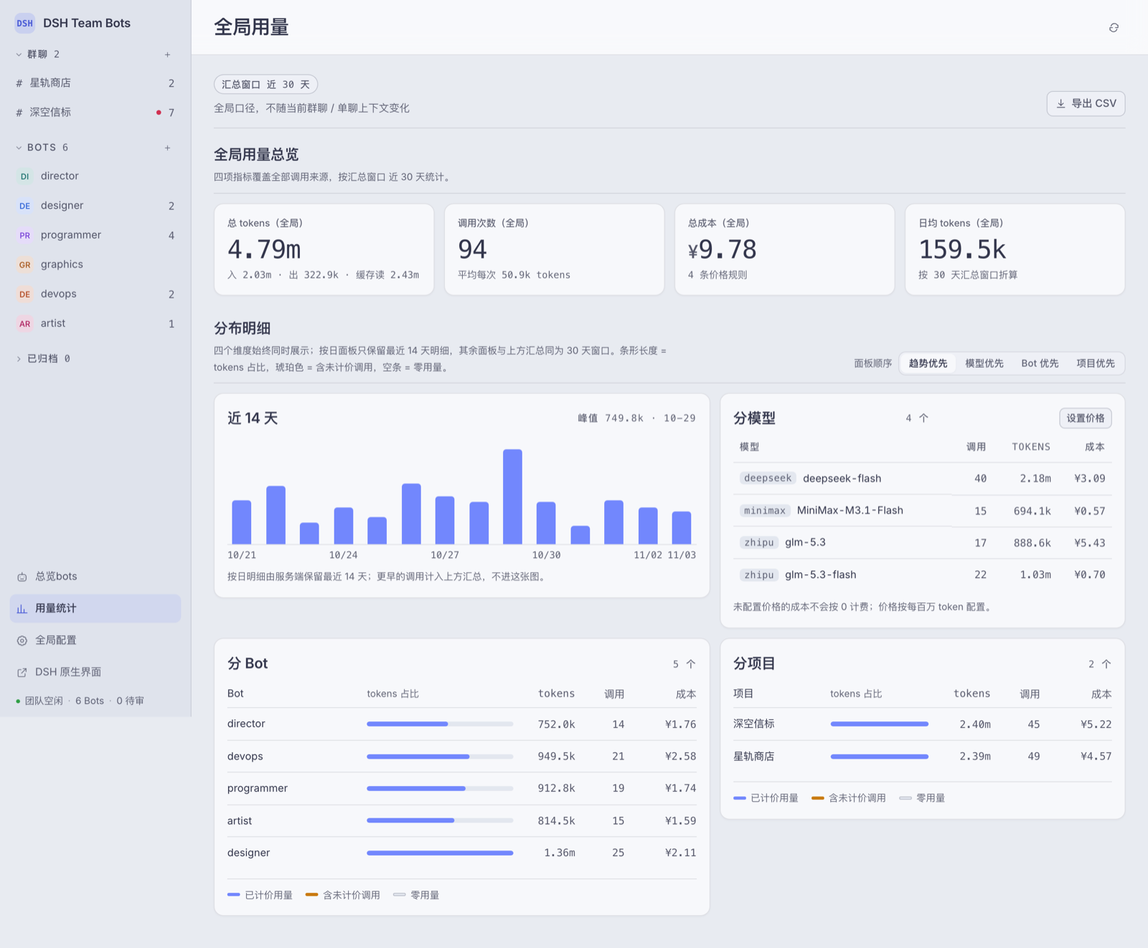
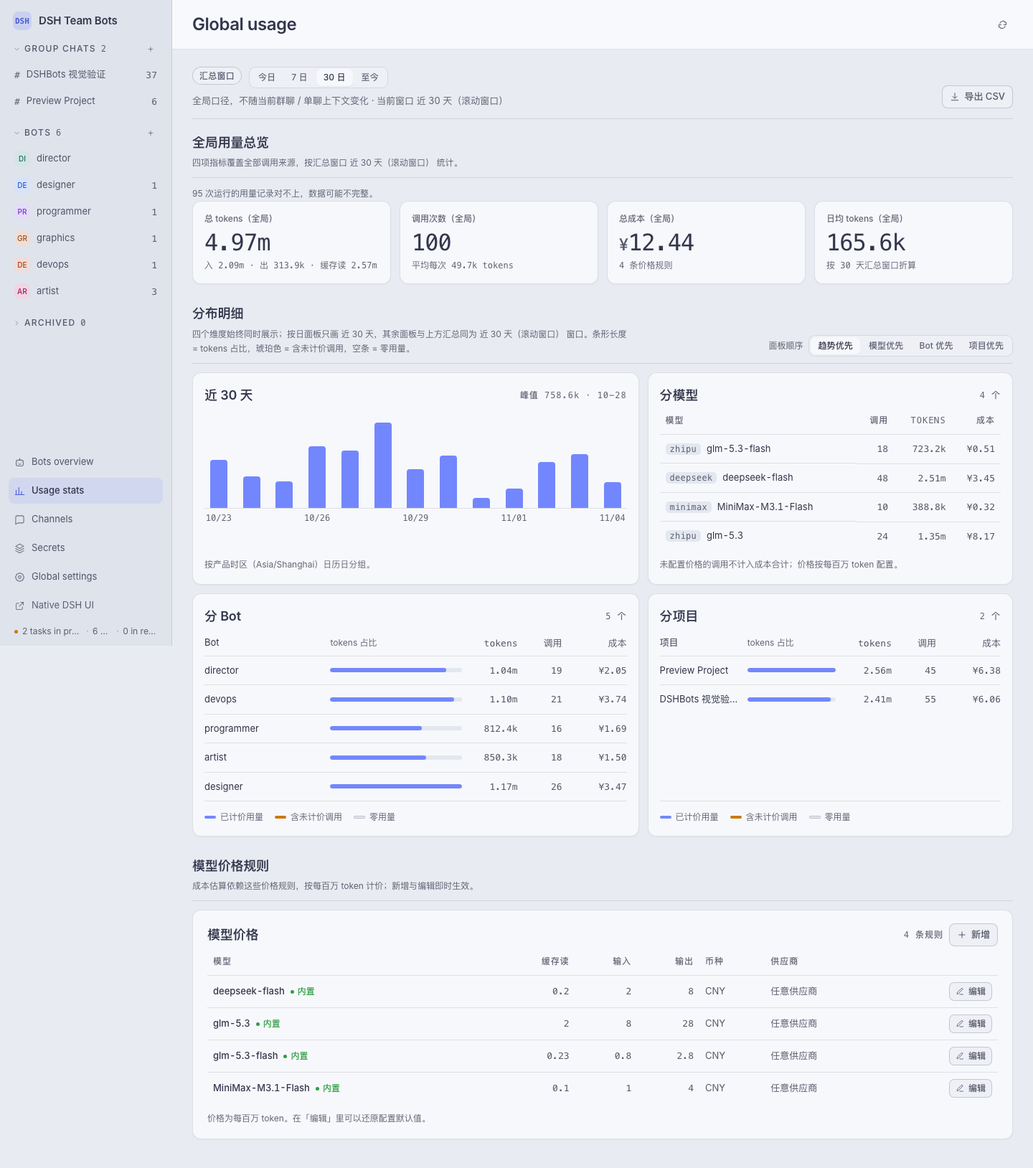
docs(readme): 重写双语 README 精简正文，英文界面重截三张截图（DSHBOTS-202）

diff --git a/README.md b/README.md
@@ -2,55 +2,22 @@
 
 [中文](docs/README.zh.md)
 
-DSH Team Bots is the npm package `dsh-team-bots`, a DSH (DeepSeek Harness) plugin that packs a collaborating crew of bots into one workspace: project group chats, a task board, write-scope parallel scheduling, memory and skills, usage and cost, plus a personal WeChat channel.
+DSH Team Bots is the npm package `dsh-team-bots`, a DSH (DeepSeek Harness) plugin that packs a collaborating crew of bots into one workspace: project group chats, a task board, write-scope parallel scheduling, memory and skills, usage and cost, plus a personal WeChat channel. Every run keeps a trajectory, duration, token count and cost.
 
 ![DSH Team Bots workspace](docs/assets/tasks.png)
 
-This file is the English edition of the project documentation; the Chinese edition is [docs/README.zh.md](docs/README.zh.md).
+## Install
 
----
-
-## 1. Project Overview
-
-`dsh-team-bots` runs inside the DSH Web process — no separate service — and lets several bots divide work across the same project spaces, exposing the collaboration as an operable web workspace.
-
-1. **Collaboration happens in projects, not in a chat window.** Each project has its own group chat, members, tasks and working directory; the project director bot splits, assigns and accepts work there.
-2. **Parallelism is declared, not hoped for.** A task declares the paths it will write; the scheduler runs two write runs in the same project in parallel only when both declare and their path prefixes do not overlap. Anything undeclared is treated as serial.
-3. **Everything is traceable.** Every run keeps a trajectory, duration, token count and cost; bot configuration keeps an immutable history that can be rolled back; secrets stay encrypted at rest and are materialised as one-time plaintext files that are burned after use.
-
-The repository shape: `index.js` is the plugin entry point, `src/` is the server side and scheduler, `ui/` is the workspace frontend, `tests/` holds the guard tests, and `docs/` holds design specs, review records and screenshots.
-
----
-
-## 2. Quick Start
-
-### 2.1 Requirements and install
-
-Node.js ≥ 22.19 (see `engines` in `package.json`) and the DSH CLI installed (`dsh --version`); the plugin runs inside the DSH Web process, with no standalone process or port.
+Node.js ≥ 22.19 and the DSH CLI are required; the plugin runs inside the DSH Web process — no standalone service or port.
 
 ```sh
-cd <repo>
-npm pack                                        # produces dsh-team-bots-<version>.tgz
-dsh plugin --profile <name> add ./dsh-team-bots-<version>.tgz
+dsh plugin --profile <name> add dsh-team-bots
 dsh --profile <name>                             # read the tokenised dsh web entry from the startup log
 ```
 
-### 2.2 Reinstall and local preview
+The package resolves from the npm registry, so no `npm pack` or local tarball is needed; `npm run profile:install -- --profile <name>` does the same from a checkout.
 
-```sh
-npm run profile:install -- --profile <name>     # installs into team-bots when --profile is omitted
-npm run dev                                     # local preview at http://127.0.0.1:4317, fake runtime
-```
-
-`profile:install` packs the repository and reinstalls the plugin into a profile. **Plugin files inside a profile are a snapshot and DSH does not pick up replaced files on its own**: after changing code you must reinstall, or the page sticks at "connecting to the team space". Team data is decoupled from the profile: `DSH_TEAM_WORKSPACE` / `DSH_TEAM_DATA` alone decide the data directory. The preview server uses a fake DSH runtime — **no authentication, no DSH configuration touched, not for production**; override the port with `PORT`.
-
-### 2.3 Data, secrets and skills
-
-Data lives under `DSH_TEAM_DATA` (default `<workspace>/.data`, workspace root `DSH_TEAM_WORKSPACE`, default `~/.dsh/workspace/team-bots`): `team.sqlite`, `wechat-channel.sqlite`, `secret.key`, `memory/`, `messages/` and `secrets-runtime/` (burned on TTL expiry). Back up `secret.key` together with the data — without it the existing ciphertext cannot be decrypted. Schema changes go through the idempotent migrations in `src/db-migrations.js`. Skills come from a shared pool fixed at `~/.agents/skills`, plus project-local `<project>/.agents/skills`, `<project>/.claude/skills` and `<project>/.codex/skills`.
-
-A template for the common variables lives in `.env.example`; **do not put a `.env` file in the repository root**, because that would leak `DSH_*` into `npm test` and `npm run dev`.
-
-### 2.4 Entry points and environment variables
+## Start
 
 ```text
 http://<host>:<port>/                     auto-login, straight into the team workspace
@@ -60,102 +27,13 @@ http://<host>:<port>/index.html           the native DSH web UI
 
 The first visit to the home page exchanges the current startup token for a 30-day login cookie. Auto-login means **anyone who can reach the port becomes owner**, so listen on the local machine or a trusted network; public exposure needs an HTTPS reverse proxy that forwards Host and WebSocket correctly.
 
-The two paths that matter are `DSH_TEAM_WORKSPACE` (team workspace root) and `DSH_TEAM_DATA` (team database and run records); every other variable, its default and its resolution order (explicit env > value saved on the page > code default) live in `src/config.js`.
+## Configuration
 
----
+The two paths that matter are `DSH_TEAM_WORKSPACE` (team workspace root, default `~/.dsh/workspace/team-bots`) and `DSH_TEAM_DATA` (team database and run records, default `<workspace>/.data`); every other variable, its default and its resolution order (explicit env > value saved on the page > code default) live in `src/config.js`.
 
-## 3. Feature Overview
+Data under `DSH_TEAM_DATA` includes `team.sqlite`, `wechat-channel.sqlite`, `secret.key`, `memory/`, `messages/` and `secrets-runtime/` (burned on TTL expiry). Back up `secret.key` together with the data — without it the existing ciphertext cannot be decrypted.
 
-- **Project group chat:** every project has one group chat and one director bot. Plain messages, `@Bot`, `/task @Bot <title>`, `/remember` and `/clear` are supported, with `/` and `@` completions for commands, skills and members. Conclusions stay in the chat; full deliveries go to task comments.
-- **Task board:** a Linear-style panel grouped by status, with a parent/child tree, priority and assignee, comments delivered into running sessions, drag-to-transition, and inline delivery artefacts and run list.
-- **Write-scope parallel scheduling:** declared write scopes decide whether two write runs in one project may run at once; write runs are independent, and neither tasks nor chats block one another.
-- **Memory and skill pool:** bot- and project-level long-term memory with a human review queue; the shared skill pool is fixed at `~/.agents/skills` and projects can add their own skill directories; skill changes go through proposal approval with rollback snapshots.
-- **Versioned evolution and team tools:** role, model, intensity and skill changes go through proposal approval, and bot configuration keeps an immutable, rollback-able history. The plugin registers the team tools for task assignment, review, memory, recall, evolution proposals, direct bot messaging and secret requests.
-- **Secret pipeline:** AES-256-GCM at rest; once approved, materialised into the data directory (**not the project workspace**) and burned when the run ends or the TTL expires; messages and run output are always masked as `$<name>`.
-- **Usage and cost:** tokens, call counts, cost and runtime aggregated at global, project and bot level; cost comes from configurable model prices and calls without a price are not billed as zero; CSV export and monthly reconciliation are available.
-- **Approvals, questions and terminal:** privilege or human-answer requests become workspace cards — approvals time out to `rejected`, an expired question stays answerable. Each project has an interactive terminal with a hard timeout, live tailing, cancellation and persisted history.
-- **WeChat channel and code hygiene:** QR-authorised task push plus a plain-text command surface (see 4.4); a per-project line limit (800 by default) is scanned at the end of every run, and an over-limit file triggers one 【系统指令】 asking the director to schedule a split card.
-
----
-
-## 4. Architecture and Layout
-
-### 4.1 Wiring
-
-`apply(ctx, config)` in `index.js` is the only entry point, and it assembles the layers in dependency order — configuration, database, domain service, host runtime, team tools, skill pool, HTTP. `service.initialize()` then creates the database and seeds the default bots and buddies before `service.start()` brings up the scheduler.
-
-### 4.2 The `src/` directory
-
-| Path | Responsibility |
-| --- | --- |
-| `index.js`, `src/config.js`, `src/db.js`, `src/db-migrations.js` | plugin entry point; configuration resolution; SQLite access and idempotent migrations |
-| `src/service.js`, `src/services/`, `src/runtime.js`, `src/services/runtime/` | the `TeamService` facade and its domain methods; the host adapter (prompts, sessions, model recovery, trajectories) |
-| `src/http.js`, `src/api.js`, `src/tools.js`, `src/botmsg.js`, `src/skill-parse.js` | HTTP routes and UI slices; the `/api/dsh-team/api` dispatch entry; team tools; bot-to-bot messages; skill parsing |
-| `src/wechat/`, `src/secrets.js`, `src/pricing.js`, `src/usage*.js`, `src/skills*.js`, `src/seed-bots.js`, `src/updater.js`, `src/paths.js`, `src/util.js`, `src/errors.js` | WeChat channel; secret crypto; pricing and usage; skill pools; seed bots; update check; path boundaries; utilities; error types |
-
-### 4.3 The `ui/` directory
-
-The frontend is plain ES modules with no build step; every slice is loaded straight from an HTTP route. `ui/modules/` holds one module per domain, `ui/styles/` one CSS file per domain, and `ui/i18n/{zh,en}.js` the interface dictionaries. Contribution rules for this tree (style-slice registration, the 800-line limit) are in `CONTRIBUTING.md`.
-
-### 4.4 The WeChat channel
-
-The channel is off by default (`DSH_TEAM_WECHAT=0`) and becomes active after QR authorisation. Its command surface is plain text, and `帮助 / help / ?` pulls it up at any time:
-
-| Command | Effect |
-| --- | --- |
-| `帮助` / `help` / `?` | show the command help |
-| `状态` | overview of the projects and the tasks pending review |
-| `验收 <task number> [comment]` | accept a delivery, e.g. `验收 web-3 做得好` |
-| `驳回 <task number> <reason>` | send it back for rework; the reason is mandatory |
-| `详情 <task number>` | show the task card and its latest comments |
-| `q` | list the project keys that can be assigned |
-| `<key>: <message>` | forward a message into the project chat for the director to arrange, e.g. `web: 上线新版官网` |
-
-Pushes go through a local outbox; its discard policy (retry budget, batching window, connection-epoch retention) is defined in `src/wechat/channel.js`. When investigating a missed push, `outbox.attempts` and `gave_up_at` tell you whether the item was dropped by design or is still queued.
-
----
-
-## 5. Testing and Development Conventions
-
-### 5.1 Common commands
-
-```sh
-npm test                        # node --test "tests/*.test.js"
-npm run dev                     # local preview (fake runtime)
-npm run doctor                  # check Node/DSH versions and the writability of the workspace and skill-pool paths
-npm run profile:install         # pack and reinstall into a profile (team-bots by default)
-npm run backup                  # back up the team data
-npm run restore-check           # check that a backup can be restored
-```
-
-### 5.2 Guard tests and commit conventions
-
-`npm test` covers every feature domain plus the architectural pins. The guard-test details, the commit conventions and the `ui/` contribution rules are in `CONTRIBUTING.md`.
-
-### 5.3 CI
-
-Pushing a `v*` tag triggers the publish workflow (`.github/workflows/publish.yml`): it installs dependencies, runs the full `npm test`, and only publishes to registry.npmjs.org when everything is green.
-
----
-
-## 6. Troubleshooting and FAQ
-
-**Q: I changed the code but the page is still the old one?**
-The plugin files inside a profile are a snapshot and are not hot-reloaded. Reinstall with `npm run profile:install -- --profile <name>`. A page stuck at "connecting to the team space" usually has the same cause.
-
-**Q: Where does the data live, and how do I take it to another machine?**
-Under `<DSH_TEAM_DATA>` are `team.sqlite`, `wechat-channel.sqlite`, `secret.key`, `memory/` and `messages/`. Back it up with `npm run backup`, and **do not leave `secret.key` behind** — without it the existing ciphertext can never be decrypted again.
-
-**Q: WeChat did not receive the push?**
-Look at `outbox.attempts` and `gave_up_at` first: a value means the item was dropped by design, not missed; no value means it is still in the queue.
-
-**Q: What is the "code hygiene" alert in the project chat?**
-At the end of every run the source files in the project workspace are scanned, and a file over the project's line limit (800 by default, judgement line 880) triggers one 【系统指令】 asking the director to schedule a split card. Raise the limit in the project settings, or set it to 0 to switch the check off.
-
-**Q: Can it be exposed to the public internet?**
-The plugin ships no sandbox: bot sessions run under DSH's `danger-full-access` as the current user. Together with auto-login (reaching the port means owner), public exposure requires an HTTPS reverse proxy and your own authentication; teams that do not trust each other should not share one DSH instance and workspace.
-
----
+A template for the common variables lives in `.env.example`; **do not put a `.env` file in the repository root**, because that would leak `DSH_*` into `npm test` and `npm run dev`. Plugin files inside a profile are a snapshot: after changing code, reinstall or the page sticks at "connecting to the team space".
 
 ## Screenshots
 
@@ -163,12 +41,10 @@ Usage stats carry the summary window, the last 14 days of detail, a per-model / 
 
 ![Usage stats](docs/assets/usage.png)
 
-The global configuration page keeps only the core groups — preferences, run limits and ops; channels, secrets, version status and pricing rules live on their own top-level pages:
+The global configuration page keeps only the core groups; channels, secrets, version status and pricing rules live on their own top-level pages:
 
 ![Global configuration](docs/assets/global-config-light.png)
 
----
-
 ## License
 
-Apache-2.0, see `LICENSE` and `NOTICE` in the repository root.
+Apache-2.0, see `LICENSE` and `NOTICE`.

diff --git a/docs/README.zh.md b/docs/README.zh.md
@@ -2,55 +2,22 @@
 
 [English](../README.md)
 
-DSH Team Bots 是 npm 包 `dsh-team-bots`，一个 DSH（DeepSeek Harness）插件，把一整个协作的 bot 团队装进同一个工作区：项目群聊、任务板、按写范围并行调度、记忆与技能、用量与成本，外加一条个人微信通道。
+DSH Team Bots 是 npm 包 `dsh-team-bots`，一个 DSH（DeepSeek Harness）插件，把一整个协作的 bot 团队装进同一个工作区：项目群聊、任务板、按写范围并行调度、记忆与技能、用量与成本，外加一条个人微信通道。每个 run 都保留轨迹、时长、token 数和成本。
 
-![DSH Team Bots 工作区](assets/tasks.png)
+![DSH Team Bots 工作区](assets/tasks.zh.png)
 
-本文件是项目文档的中文版，英文版见 [../README.md](../README.md)。
+## 安装
 
----
-
-## 1. 项目简介与定位
-
-`dsh-team-bots` 跑在 DSH Web 进程里 —— 没有独立服务 —— 让多个 bot 在同一个项目空间里分工，并把整个协作暴露成一个可操作的 Web 工作区。
-
-1. **协作发生在项目里，而不是聊天窗里。** 每个项目有自己的群聊、成员、任务和工作目录；项目 director bot 在那里拆分、派发和验收工作。
-2. **并行是声明出来的，不是碰运气。** 任务声明它会写哪些路径；调度器只在两个写 run 都声明、且写路径前缀互不重叠时，才让它们在同一项目里并行。没声明的一律按串行处理。
-3. **一切可追溯。** 每个 run 都保留轨迹、时长、token 数和成本；bot 配置保留可回滚的不可变历史；密钥在落盘时加密，使用时才物化成一次性明文文件，用完即焚。
-
-仓库结构：`index.js` 是插件入口，`src/` 是服务端与调度器，`ui/` 是工作区前端，`tests/` 是守门测试，`docs/` 是设计稿、评审记录和截图。
-
----
-
-## 2. 快速开始
-
-### 2.1 环境要求与安装
-
-Node.js ≥ 22.19（见 `package.json` 的 `engines`），并装好 DSH CLI（`dsh --version`）；插件跑在 DSH Web 进程里，没有独立进程和端口。
+需要 Node.js ≥ 22.19 与 DSH CLI；插件跑在 DSH Web 进程里 —— 没有独立服务与端口。
 
 ```sh
-cd <repo>
-npm pack                                        # 产出 dsh-team-bots-<version>.tgz
-dsh plugin --profile <name> add ./dsh-team-bots-<version>.tgz
+dsh plugin --profile <name> add dsh-team-bots
 dsh --profile <name>                             # 从启动日志里读带 token 的 dsh web 入口
 ```
 
-### 2.2 重装与本地预览
+包从 npm registry 解析，不需要 `npm pack` 或本地 tarball；在仓库里用 `npm run profile:install -- --profile <name>` 等价。
 
-```sh
-npm run profile:install -- --profile <name>     # 省略 --profile 时装进 team-bots
-npm run dev                                     # 本地预览 http://127.0.0.1:4317，假 runtime
-```
-
-`profile:install` 把仓库打包并重装进 profile。**profile 里的插件文件是快照，DSH 不会自动加载替换后的文件**：改了代码必须重装，否则页面会卡在「connecting to the team space」。团队数据与 profile 解耦：数据目录只由 `DSH_TEAM_WORKSPACE` / `DSH_TEAM_DATA` 决定。预览服务器用的是假 DSH runtime —— **不做鉴权、不动 DSH 配置、不可用于生产**；端口可用 `PORT` 覆盖。
-
-### 2.3 数据、密钥与技能放在哪
-
-数据位于 `DSH_TEAM_DATA`（缺省 `<workspace>/.data`，工作区根目录 `DSH_TEAM_WORKSPACE`，缺省 `~/.dsh/workspace/team-bots`）：`team.sqlite`、`wechat-channel.sqlite`、`secret.key`、`memory/`、`messages/` 和 `secrets-runtime/`（TTL 到期即焚）。备份时请把 `secret.key` 一起带走 —— 没有它，已有的密文永远解不开。表结构变更走 `src/db-migrations.js` 的幂等迁移。技能来自固定在 `~/.agents/skills` 的共享池，以及项目本地的 `<project>/.agents/skills`、`<project>/.claude/skills`、`<project>/.codex/skills`。
-
-常用变量的模板在 `.env.example`；**不要把 `.env` 放在仓库根目录**，否则 `DSH_*` 会漏进 `npm test` 和 `npm run dev`。
-
-### 2.4 访问入口与常用环境变量
+## 启动
 
 ```text
 http://<host>:<port>/                     自动登录，直接进入团队工作区
@@ -60,115 +27,24 @@ http://<host>:<port>/index.html           DSH 原生 Web UI
 
 首次访问首页会用当前启动 token 换一张 30 天登录 cookie。自动登录意味着**任何能访问到端口的人都是 owner**，所以请只监听本机或可信网络；要公网暴露，需要一个正确转发 Host 与 WebSocket 的 HTTPS 反向代理。
 
-真正要紧的两个路径是 `DSH_TEAM_WORKSPACE`（团队工作区根目录）和 `DSH_TEAM_DATA`（团队数据库与 run 记录）；其余变量、缺省值和解析顺序（显式 env > 页面保存值 > 代码缺省）都在 `src/config.js`。
+## 配置要点
 
----
+真正要紧的两个路径是 `DSH_TEAM_WORKSPACE`（团队工作区根目录，缺省 `~/.dsh/workspace/team-bots`）和 `DSH_TEAM_DATA`（团队数据库与 run 记录，缺省 `<workspace>/.data`）；其余变量、缺省值和解析顺序（显式 env > 页面保存值 > 代码缺省）都在 `src/config.js`。
 
-## 3. 功能总览
+`DSH_TEAM_DATA` 下的数据包括 `team.sqlite`、`wechat-channel.sqlite`、`secret.key`、`memory/`、`messages/` 和 `secrets-runtime/`（TTL 到期即焚）。备份时请把 `secret.key` 一起带走 —— 没有它，已有的密文永远解不开。
 
-- **项目群聊：** 每个项目一个群聊、一个 director bot。支持纯文本、`@Bot`、`/task @Bot <标题>`、`/remember` 和 `/clear`，`/` 与 `@` 可补全命令、技能和成员。结论留在聊天里，完整交付走任务评论。
-- **任务板：** Linear 风格、按状态分组的面板，带父子树、优先级与负责人，评论会送进正在跑的会话，支持拖拽流转，行内展示交付物和 run 列表。
-- **按写范围并行调度：** 由声明的写范围决定同一项目的两个写 run 能否同时跑；写 run 彼此独立，任务和聊天互不阻塞。
-- **记忆与技能池：** bot 级和项目级长期记忆，带人工审核队列；共享技能池固定在 `~/.agents/skills`，项目可追加自己的技能目录；技能变更走提案审批并保留回滚快照。
-- **版本化演进与团队工具：** 角色、模型、强度和技能变更走提案审批，bot 配置保留不可变、可回滚的历史。插件注册了任务派发、评审、记忆、召回、演进提案、bot 间直发消息和密钥申请等团队工具。
-- **密钥流水线：** 落盘用 AES-256-GCM；审批通过后物化到数据目录（**不是项目工作区**），run 结束或 TTL 到期即焚；消息和 run 输出里始终以 `$<name>` 掩码。
-- **用量与成本：** token、调用次数、成本和运行时长按全局、项目、bot 三级汇总；成本来自可配置的模型价格，未配置价格的调用不按 0 计费；支持 CSV 导出和月度对账。
-- **审批、提问与终端：** 提权或要人回答的请求变成工作区卡片 —— 审批超时变 `rejected`，提问过期后仍可回答。每个项目有一个交互式终端，带硬超时、实时 tail、取消和持久历史。
-- **微信通道与代码卫生：** 扫码授权后推送任务，外加纯文本命令面（见 4.4）；每个项目有行数上限（缺省 800），每个 run 结束时扫描，超限文件触发一条【系统指令】请 director 派拆分卡。
-
----
-
-## 4. 架构与目录说明
-
-### 4.1 装配链路
-
-`index.js` 里的 `apply(ctx, config)` 是唯一入口，它按依赖顺序把各层装起来 —— 配置、数据库、领域服务、宿主 runtime、团队工具、技能池、HTTP。`service.initialize()` 先建库、播种缺省 bot 与 buddy，之后 `service.start()` 才拉起调度器。
-
-### 4.2 `src/` 目录
-
-| 路径 | 职责 |
-| --- | --- |
-| `index.js`、`src/config.js`、`src/db.js`、`src/db-migrations.js` | 插件入口；配置解析；SQLite 访问与幂等迁移 |
-| `src/service.js`、`src/services/`、`src/runtime.js`、`src/services/runtime/` | `TeamService` 门面及其领域方法；宿主适配器（提示词、会话、模型恢复、轨迹） |
-| `src/http.js`、`src/api.js`、`src/tools.js`、`src/botmsg.js`、`src/skill-parse.js` | HTTP 路由与 UI 切片；`/api/dsh-team/api` 分发入口；团队工具；bot 间消息；技能包解析 |
-| `src/wechat/`、`src/secrets.js`、`src/pricing.js`、`src/usage*.js`、`src/skills*.js`、`src/seed-bots.js`、`src/updater.js`、`src/paths.js`、`src/util.js`、`src/errors.js` | 微信通道；密钥加解密；定价与用量；技能池；种子 bot；更新检查；路径边界；工具函数；错误类型 |
-
-### 4.3 `ui/` 目录
-
-前端是纯 ES 模块，无构建步骤，每个切片由 HTTP 路由直接加载。`ui/modules/` 每个领域一个模块，`ui/styles/` 每个领域一个 CSS 文件，`ui/i18n/{zh,en}.js` 是界面字典。这棵树的贡献约定（样式切片注册、800 行铁律）见 `CONTRIBUTING.md`。
-
-### 4.4 微信通道
-
-通道缺省关闭（`DSH_TEAM_WECHAT=0`），扫码授权后启用。命令面是纯文本，随时可用 `帮助 / help / ?` 唤出：
-
-| 命令 | 作用 |
-| --- | --- |
-| `帮助` / `help` / `?` | 显示命令帮助 |
-| `状态` | 项目与待验收任务总览 |
-| `验收 <任务号> [评语]` | 验收交付，如 `验收 web-3 做得好` |
-| `驳回 <任务号> <原因>` | 打回重做，原因必填 |
-| `详情 <任务号>` | 显示任务卡与最新评论 |
-| `q` | 列出可指派的项目 key |
-| `<key>: <消息>` | 转发消息到项目群聊交 director 安排，如 `web: 上线新版官网` |
-
-推送走本地 outbox，其丢弃策略（重试预算、批量窗口、连接周期保留）定义在 `src/wechat/channel.js`。排查漏推时看 `outbox.attempts` 和 `gave_up_at`：有值说明该条目是被设计丢弃的，没值说明还在队列里。
-
----
-
-## 5. 测试与开发约定
-
-### 5.1 常用命令
-
-```sh
-npm test                        # node --test "tests/*.test.js"
-npm run dev                     # 本地预览（假 runtime）
-npm run doctor                  # 检查 Node/DSH 版本，以及工作区与技能池路径的可写性
-npm run profile:install         # 打包并重装进 profile（缺省 team-bots）
-npm run backup                  # 备份团队数据
-npm run restore-check           # 检查备份能否恢复
-```
-
-### 5.2 守门测试与提交约定
-
-`npm test` 覆盖每个功能域，另加几条架构约定的钉子。守门测试细节、提交约定和 `ui/` 贡献约定都在 `CONTRIBUTING.md`。
-
-### 5.3 CI
-
-推送 `v*` tag 触发发布工作流（`.github/workflows/publish.yml`）：装依赖、跑完整 `npm test`，全绿才发布到 registry.npmjs.org。
-
----
-
-## 6. 故障排查与常见问题
-
-**Q：改了代码，页面还是旧的？**
-profile 里的插件文件是快照，不会热加载。用 `npm run profile:install -- --profile <name>` 重装。页面卡在「connecting to the team space」通常也是同一个原因。
-
-**Q：数据在哪，怎么搬到另一台机器？**
-`<DSH_TEAM_DATA>` 下有 `team.sqlite`、`wechat-channel.sqlite`、`secret.key`、`memory/` 和 `messages/`。用 `npm run backup` 备份，**不要把 `secret.key` 落下** —— 没有它，已有密文永远解不开。
-
-**Q：微信没收到推送？**
-先看 `outbox.attempts` 和 `gave_up_at`：有值说明条目是被设计丢弃的，不是漏发；没值说明还在队列里。
-
-**Q：项目聊天里的「代码卫生」提醒是什么？**
-每个 run 结束时会扫描项目工作区里的源文件，超过项目行数上限（缺省 800，判定线 880）的文件会触发一条【系统指令】请 director 派拆分卡。可在项目设置里调高上限，或设为 0 关闭检查。
-
-**Q：能暴露到公网吗？**
-插件本身不带沙箱：bot 会话以当前用户身份跑在 DSH 的 `danger-full-access` 下。加上自动登录（能访问端口就是 owner），公网暴露需要 HTTPS 反向代理和自有鉴权；互不信任的团队不应共用同一个 DSH 实例和工作区。
-
----
+常用变量的模板在 `.env.example`；**不要把 `.env` 放在仓库根目录**，否则 `DSH_*` 会漏进 `npm test` 和 `npm run dev`。profile 里的插件文件是快照：改了代码必须重装，否则页面会卡在「connecting to the team space」。
 
 ## 截图
 
 用量统计带汇总窗口、最近 14 天明细、按模型 / 按 bot / 按项目拆分和 CSV 导出：
 
-![用量统计](assets/usage.png)
+![用量统计](assets/usage.zh.png)
 
-全局配置页只保留偏好、运行时效与系统运维核心组；通道、密钥、版本与价格规则在各自的一级页：
+全局配置页只保留核心分组；通道、密钥、版本状态与价格规则在各自的一级页：
 
-![全局配置](assets/global-config-light.png)
-
----
+![全局配置](assets/global-config-light.zh.png)
 
 ## License
 
-Apache-2.0，见仓库根目录的 `LICENSE` 和 `NOTICE`。
+Apache-2.0，见 `LICENSE` 与 `NOTICE`。
